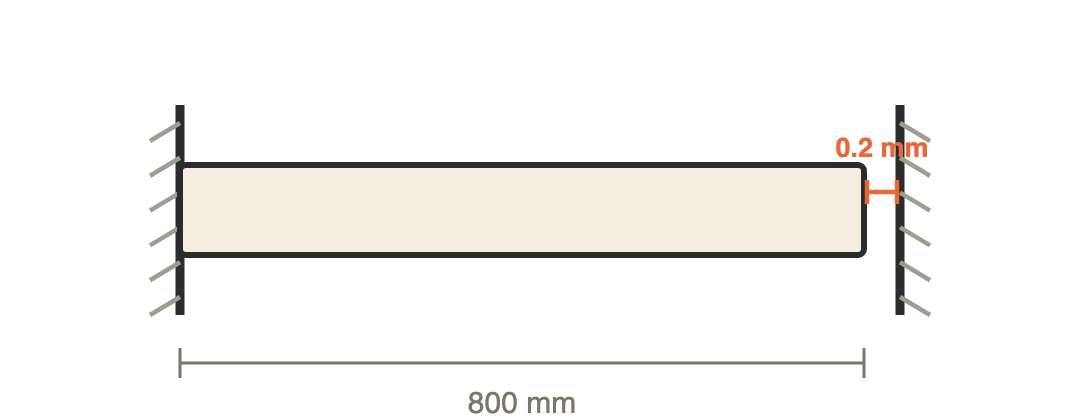
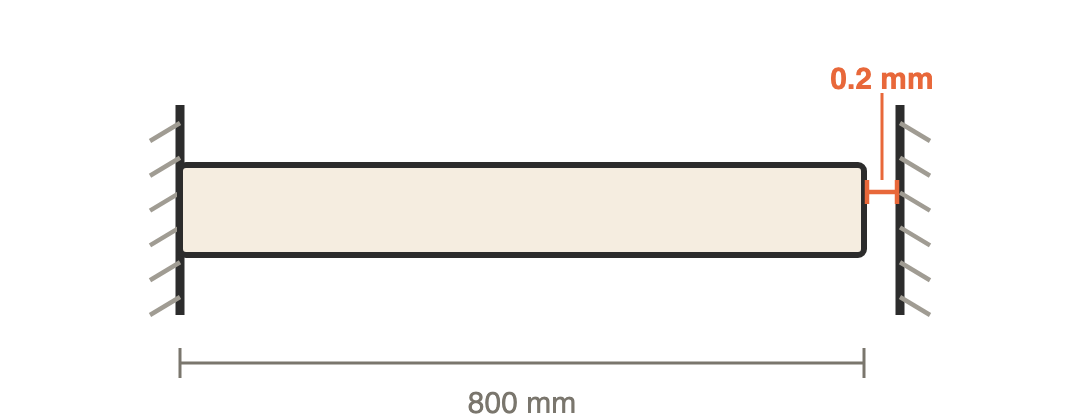
Rod figure: lift the gap label above the wall

Changed region(s): [[0.7639, 0.1548, 0.8861, 0.4333]]

diff --git a/src/components/diagrams/ThermalBar.jsx b/src/components/diagrams/ThermalBar.jsx
@@ -66,8 +66,14 @@ export function ThermalBar({
             stroke="var(--ember)" strokeWidth={1.5} />
           <line x1={rightWallX - 1} y1={midY - 10} x2={rightWallX - 1} y2={midY - 2}
             stroke="var(--ember)" strokeWidth={1.5} />
-          <Label x={(barEndX + rightWallX) / 2} y={midY - 20}
-            fontSize={9} color="var(--ember)" bold>
+          {/* The gap is narrower than its label, so the label sits above the
+              wall top and a leader drops into the gap; inside the wall's
+              height it ran over the wall line. */}
+          <line x1={(barEndX + rightWallX) / 2} y1={midY - 10}
+            x2={(barEndX + rightWallX) / 2} y2={midY - wallH / 2 - 4}
+            stroke="var(--ember)" strokeWidth={1} />
+          <Label x={(barEndX + rightWallX) / 2} y={midY - wallH / 2 - 8}
+            fontSize={10} color="var(--ember)" bold>
             {gap} {gapUnit}
           </Label>
         </g>
